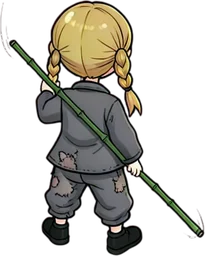
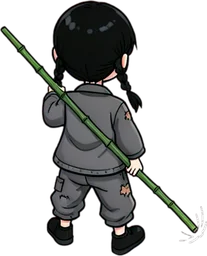
lingjing 守白菜: 阿禾's hair repainted black (Hanli 10-22: 「收白菜里阿禾是黄毛吗?」 — the prompt said straw-yellow and FLUX painted her golden blonde; the book's 黄毛小辫 is 黄毛丫头, thin dull hair): ahe-idle · ahe-cast now dull black thin braids as people/ahe-girl, same pose, 竹竿, patched grey clothes and cut; paint scrip

Changed region(s): [[0.0, 0.0, 1.0, 1.0]]

diff --git a/lingjing/tools/paint-gu1-td-flux.py b/lingjing/tools/paint-gu1-td-flux.py
@@ -3,7 +3,7 @@
 
     PY=~/.linggen/runtime/envs/pictures/bin/python
     $PY tools/paint-gu1-td-flux.py paint [--only id,…] [--seeds 1,2]   # every seed → $FLUX_REVIEW/gu1td/, looked at
-    $PY tools/paint-gu1-td-flux.py cut                                  # the KEPT seeds → the two kits' art folders
+    $PY tools/paint-gu1-td-flux.py cut [--only id,…]                    # the KEPT seeds → the two kits' art folders
 
 守白菜 (守墙关, levels/shouqiang.json `baicai`): 阿禾's vegetable plot by day — the 篱笆 with its gaps at the top, the cabbage
 bed for the wall, 阿禾 from behind with her 竹竿 (idle, poking), 小满 beside her shooing, the 芦花鸡 (two steps and a
@@ -32,8 +32,11 @@ STYLE_OF = ('The attached picture shows this game\'s art style: draw a NEW subje
 NO_WRITING = 'No writing, no letters, no glyphs anywhere. '
 BACK = 'Seen from BEHIND and a little from above, the back of the figure towards us, the whole body in view. '
 FRONT = 'Seen from the front and a little from above, standing on the ground, the whole body in view. '
-AHE = ('a skinny little peasant girl of about eleven with two thin straw-yellow braided pigtails, a patched grey-brown '
-       'cotton jacket and baggy patched trousers, black cloth shoes')
+# Her hair is BLACK: the book's 「两根黄毛小辫」 is 黄毛丫头 — a poor kid's thin dry dull hair, never blonde (Hanli 10-22:
+# 「收白菜里阿禾是黄毛吗?」 — the first paint said straw-yellow and came out golden). The canon portrait people/ahe-girl.
+# No hair-colour word but black/dark reaches the model.
+AHE = ('a skinny little peasant girl of about eleven with dull BLACK hair, thin and a little messy, in two thin small '
+       'BLACK braided pigtails, a patched grey-brown cotton jacket and baggy patched trousers, black cloth shoes')
 XM = ('a skinny twelve-year-old peasant boy, black hair in a small topknot tied with a red band, a patched off-white '
       'cotton jacket with a dark sash, grey trousers, straw sandals')
 HEN = ('a plump speckled barred black-and-white farm hen (a cuckoo-patterned hen), a bright red comb and wattles, yellow '
@@ -117,7 +120,9 @@ for k, what in ICONS.items():
     f'rendering and size; only change the background gradient to fresh spring green to pale straw yellow and the emblem '
     f'inside to: {what}. No text, no numbers. ' + fc.ON_MAGENTA))
 
-# Looked at 2026-10-21 (no fake writing kept).
+# Looked at 2026-10-21 (no fake writing kept). ahe-idle · ahe-cast repainted 2026-10-22 with her hair black (seeds 1–4
+# each): idle 2 (pole on the left like the first, thin braids; 1 pole on the right, 3 a cut white pole tip, 4 a cast
+# shadow), cast 1 (the diagonal poke; 2 grew a second pole, 3 a bent pole, 4 a stiff stride).
 KEPT = {'baicai-bg': 1, 'baicai-wall': 2, 'ahe-idle': 2, 'xiaoman-side': 2, 'luhuaji-walk-1': 1, 'zhugan': 1, 'kela': 2,
         'ground-yingu-night': 1, 'campfire': 1, 'xiaoman-idle': 1, 'kuzhi': 1, 'fox-sleep': 2, 'yanjing': 1,
         'icon-gan-more': 2, 'icon-gan-sweep': 1, 'icon-gan-back': 2,
@@ -137,10 +142,12 @@ def second_jobs():
   return out
 
 
-def cut():
+def cut(only=()):
   from PIL import Image
   jobs = {**JOBS, **second_jobs()}
   for jid, seed in KEPT.items():
+    if only and jid not in only:
+      continue
     j = jobs[jid]
     src = REV / f'{jid}-{seed}.png'
     out = (QOUT if j['kit'] == 'q' else LOUT) / f'{jid}.webp'
@@ -161,4 +168,4 @@ if __name__ == '__main__':
   if a.cmd == 'paint':
     fc.paint_all('gu1td', {**JOBS, **second_jobs()}, a)
   else:
-    cut()
+    cut([k for k in a.only.split(',') if k])

diff --git a/lingjing/worlds/jiuding/art/CREDITS.md b/lingjing/worlds/jiuding/art/CREDITS.md
@@ -294,4 +294,6 @@ behind with her 竹竿), `xiaoman-side` (小满 shooing), `luhuaji-walk-1` · `-
 `yanjing` (eyes in the dark), `xiaoman-idle` · `xiaoman-throw` · `xiaoman-carry`. The local FLUX.2 klein 4B (mflux),
 `tools/paint-gu1-td-flux.py`: edit passes from 守墙关's own art (小满, 野猪, 狰, the 剑阵 medallion, the 山门 wall) so the set
 keeps the kit's comic style; every seed looked at for fake writing; the sources kept beside 守墙关's and 守炉's in
-`art/games/shouqiang/` and `art/games/shoulu/`.
+`art/games/shouqiang/` and `art/games/shoulu/`. 阿禾's two repainted 2026-10-22 (Hanli: 「收白菜里阿禾是黄毛吗?」 — the first prompt said
+straw-yellow and painted her golden blonde; the book's 黄毛小辫 is 黄毛丫头, a poor kid's thin dull hair): now dull black
+hair in two thin small braids, as `people/ahe-girl`; idle seed 2, cast seed 1 of 1–4, every seed looked at.
